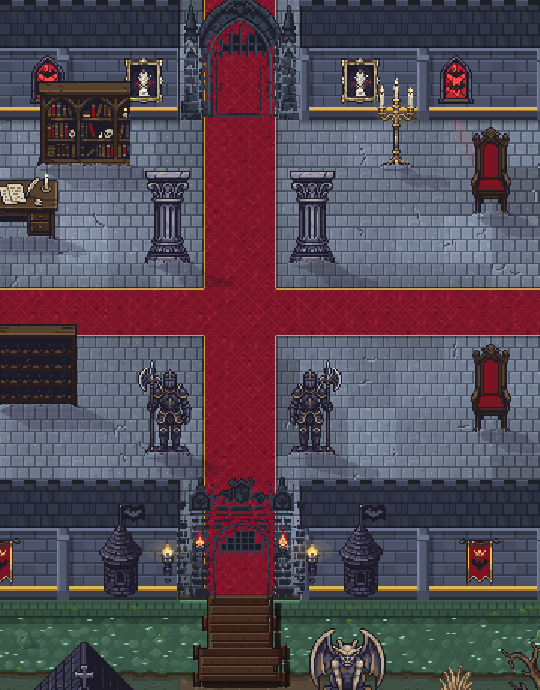
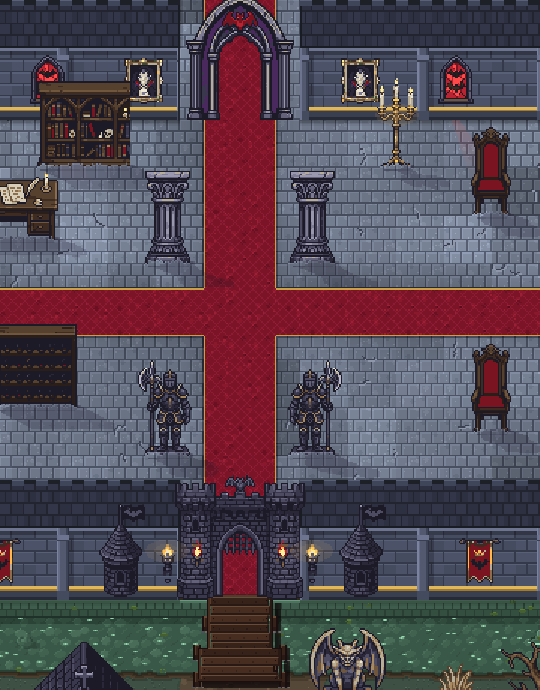
Karte 09: neue Tore (PixelLab k9_tor2) mit offenem Durchgang - Torhaus aussen, Spitzbogen innen, mittig auf dem Teppich
Claude-Session: https://claude.ai/code/session_01SaoYHKhnro4LFcPJqjaPsq

Changed region(s): [[0.3259, 0.6696, 0.563, 0.8826], [0.3259, 0.0, 0.563, 0.1826]]

diff --git a/tools/pixellab_objekte.py b/tools/pixellab_objekte.py
@@ -747,6 +747,12 @@ OBJEKTGRUPPEN_K8 = {
         'stone gargoyle statue on a pedestal, perfectly straight front elevation view, symmetric, facing the camera head-on, no side wall visible, no perspective, no isometric, flat orthographic, classic 2D handheld RPG style', 'cluster of melting candles, perfectly straight front elevation view, symmetric, facing the camera head-on, no side wall visible, no perspective, no isometric, flat orthographic, classic 2D handheld RPG style',
         'dead thorny bush, perfectly straight front elevation view, symmetric, facing the camera head-on, no side wall visible, no perspective, no isometric, flat orthographic, classic 2D handheld RPG style', 'wooden signpost with a skull, perfectly straight front elevation view, symmetric, facing the camera head-on, no side wall visible, no perspective, no isometric, flat orthographic, classic 2D handheld RPG style',
     ]},
+    'k9_tor2': {'size': 96, 'items': [
+        'gothic castle gatehouse in a dark blue-grey stone brick wall, tall pointed archway with an OPEN EMPTY passage (nothing inside the arch, transparent), raised iron portcullis at the top of the arch, bat emblem keystone, two small spires, perfectly straight front elevation view, symmetric, facing the camera head-on, no perspective, no isometric, flat orthographic, classic 2D handheld RPG style',
+        'gothic castle main gate tower, dark slate-grey stone bricks, wide pointed arch passage completely open and empty, portcullis pulled up, two wall torches, battlements on top with a small bat statue, perfectly straight front elevation view, symmetric, facing the camera head-on, no perspective, no isometric, flat orthographic, classic 2D handheld RPG style',
+        'inner gothic castle doorway arch in dark grey stone, open passage with no door, ornate pointed arch with a red bat crest above, thin columns on both sides, perfectly straight front elevation view, symmetric, facing the camera head-on, no perspective, no isometric, flat orthographic, classic 2D handheld RPG style',
+        'gothic stone archway gate with dark grey bricks, gold trim, open empty arch passage, iron portcullis spikes visible at the top, small red banner on each side, perfectly straight front elevation view, symmetric, facing the camera head-on, no perspective, no isometric, flat orthographic, classic 2D handheld RPG style',
+    ]},
     'k9_banner': {'size': 32, 'items': [
         'long hanging gothic castle banner, deep red cloth with a black bat emblem, gold trim, hanging from a short iron rod, pointed swallowtail bottom, perfectly straight front elevation view, symmetric, facing the camera head-on, no perspective, no isometric, flat orthographic, classic 2D handheld RPG style',
         'long hanging gothic castle banner, dark purple cloth with a silver crescent moon, gold trim, iron rod, pointed bottom, perfectly straight front elevation view, symmetric, facing the camera head-on, no perspective, no isometric, flat orthographic, classic 2D handheld RPG style',

diff --git a/tools/karte09_objekte.py b/tools/karte09_objekte.py
@@ -330,9 +330,9 @@ def main():
                         **({'anim': 'kerzen'} if name == 'wand/04' else {})})
     # Tuerme auf der Aussenmauer und Tore (stehen auf/vor der Mauer, eigene Platzierung)
     for (name, tx, fuss_px) in [(TURM, x, 39 * T + 13) for x in (2, 12, 22, 32, 42, 52, 62, 72, 82)] + \
-                               [('tor/01', 27, 39 * T + 15), ('tor/00', 27, 19 * T + 15)]:
+                               [('tor2/01', 27, 39 * T + 15), ('tor2/02', 27, 19 * T + 15)]:
         datei, h, zu, mitte = sprite(name, False)
-        if name.startswith('tor/'):
+        if name.startswith(('tor/', 'tor2/')):
             xs_ = np.nonzero(alpha[datei].any(axis=0))[0]
             mitte = (xs_.min() + xs_.max() + 1) / 2.0             # Tor genau mittig auf der Teppichachse
         x, y = int(round(tx * T + T / 2 - mitte)), fuss_px - zu

diff --git a/tools/regeln_v11.py b/tools/regeln_v11.py
@@ -22,7 +22,7 @@ LIEGEND = {
 }
 NICHT_RASTERN = {'karte02': ('schatten', 'abgeleitet/laterne', 'abgeleitet/leer', 'kran'),
                  'karte03': ('abgeleitet/arena_tor', 'abgeleitet/buehne', 'abgeleitet/box_monitor'),
-                 'karte09': ('gross/03', 'tor/00', 'tor/01', 'einrichtung/05', 'einrichtung/04', 'turm/03')}
+                 'karte09': ('gross/03', 'tor/00', 'tor/01', 'tor2/01', 'tor2/02', 'einrichtung/05', 'einrichtung/04', 'turm/03')}
 BAUM = ('baeume/', 'rand/')
 ABSTAND = {'karte03': 1}                             # Pixelpruefung mit Abstand (je Seite 1 px = 2 px Luecke)
 
